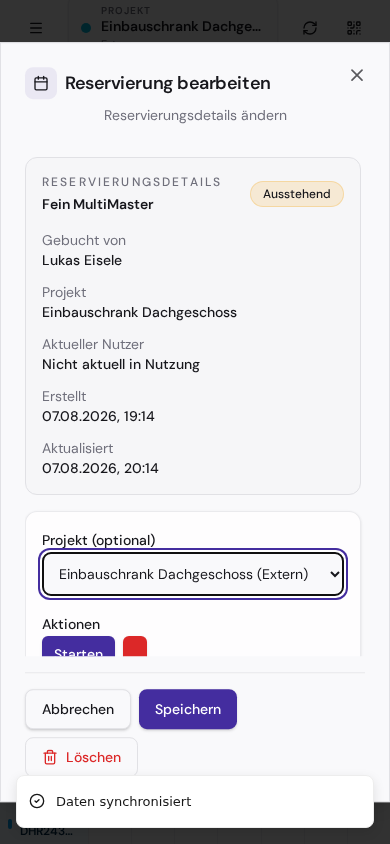
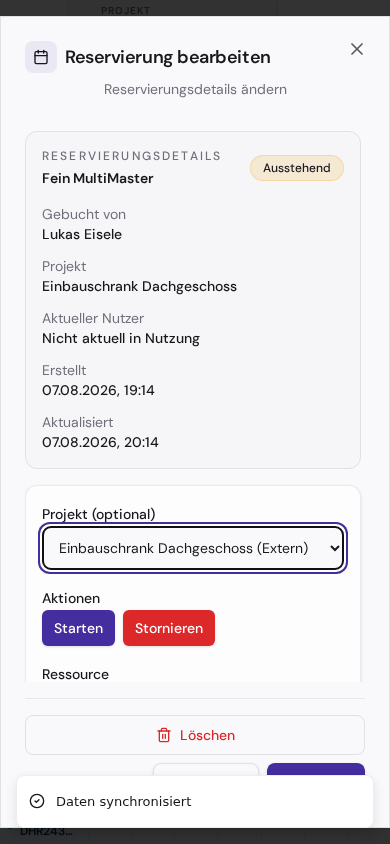
fix(fleet): improve reservation dialog actions [sc-vqorc]

diff --git a/frontend/src/pages/fleet/ReservationDialog.tsx b/frontend/src/pages/fleet/ReservationDialog.tsx
@@ -224,7 +224,7 @@ export function ReservationDialog({
 
   return (
     <Dialog open={open} onOpenChange={onOpenChange}>
-      <DialogContent className="flex max-h-[90vh] flex-col overflow-hidden sm:max-w-md">
+      <DialogContent className="flex max-h-[calc(100dvh-2rem)] flex-col overflow-hidden sm:max-h-[90vh] sm:max-w-lg">
         <DialogHeader>
           <DialogTitle className="flex items-center gap-2">
             <div className="flex h-8 w-8 items-center justify-center rounded-lg bg-accent">
@@ -237,7 +237,7 @@ export function ReservationDialog({
           </DialogDescription>
         </DialogHeader>
 
-        <div className="min-h-0 space-y-4 overflow-y-auto py-4 pr-1">
+        <div className="min-h-0 flex-1 space-y-4 overflow-y-auto py-4 pr-1">
           {isEditing && (
             <div className="space-y-4 rounded-xl border bg-muted/30 p-4">
               <div className="flex items-center justify-between gap-3">
@@ -430,13 +430,13 @@ export function ReservationDialog({
           </div>
         </div>
 
-        <DialogFooter className="flex-col-reverse gap-2 border-t border-border/70 pt-4 sm:flex-row sm:justify-between">
-          <div>
+        <DialogFooter className="shrink-0 flex-col gap-2 border-t border-border/70 bg-background pt-4 sm:flex-row sm:items-center sm:justify-between">
+          <div className="w-full sm:w-auto">
             {isEditing ? (
               <Button
                 type="button"
                 variant="outline"
-                className="gap-2 text-destructive hover:text-destructive"
+                className="w-full gap-2 text-destructive hover:text-destructive sm:w-auto"
                 disabled={deleteMutation.isPending}
                 onClick={handleDelete}
               >
@@ -445,7 +445,7 @@ export function ReservationDialog({
               </Button>
             ) : null}
           </div>
-          <div className="flex gap-2">
+          <div className="flex w-full justify-end gap-2 sm:w-auto">
             <Button variant="outline" onClick={() => onOpenChange(false)} className="shadow-sm">
               Abbrechen
             </Button>

diff --git a/frontend/src/pages/fleet/ReservationDialog.test.tsx b/frontend/src/pages/fleet/ReservationDialog.test.tsx
@@ -73,6 +73,7 @@ describe('ReservationDialog', () => {
     )
 
     const deleteButton = await screen.findByRole('button', { name: 'Löschen' })
+    expect(screen.getByRole('button', { name: 'Stornieren' })).toBeInTheDocument()
 
     expect(deleteButton).toHaveClass('text-destructive')
     expect(deleteButton).toHaveClass('gap-2')

diff --git a/frontend/src/components/fleet/StatusTransitionButtons.tsx b/frontend/src/components/fleet/StatusTransitionButtons.tsx
@@ -31,7 +31,7 @@ const transitionLabels: Record<ReservationStatus, string> = {
   confirmed: "Starten",
   in_use: "Abschließen",
   completed: "",
-  cancelled: "",
+  cancelled: "Stornieren",
 }
 
 export function StatusTransitionButtons({
